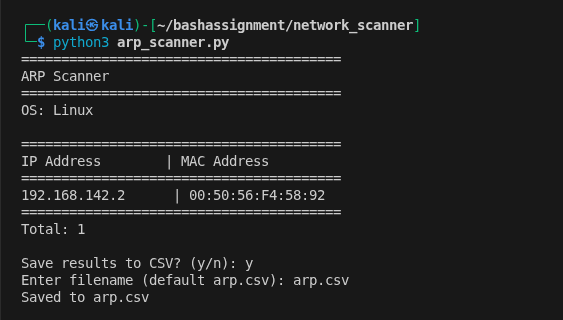
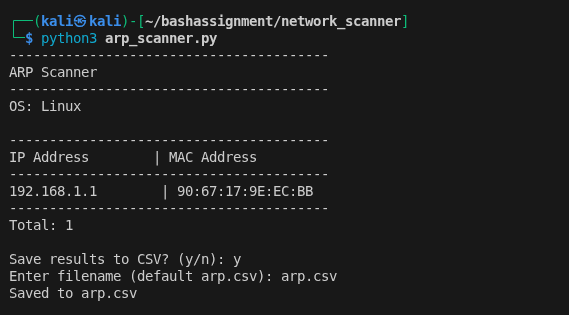
change in ss

Changed region(s): [[0.0, 0.0286, 0.7549, 0.3714], [0.0, 0.4286, 0.6039, 0.7429], [0.0, 0.8, 0.6341, 0.9714]]

diff --git a/network_scanner/arp_scanner.py b/network_scanner/arp_scanner.py
@@ -86,16 +86,16 @@ def show(entries):
         return
 
     # print table header
-    print("\n" + "=" * 40)
+    print("\n" + "-" * 40)
     print("IP Address        | MAC Address")
-    print("=" * 40)
+    print("-" * 40)
 
     # print each entry
     for e in entries:
         print(f"{e[0]:<18} | {e[1]}")
 
     # print total count
-    print("=" * 40)
+    print("-" * 40)
     print("Total:", len(entries))
 
 
@@ -138,9 +138,9 @@ def save(entries):
 
 # main function (program starts here)
 def main():
-    print("=" * 40)
+    print("-" * 40)
     print("ARP Scanner")
-    print("=" * 40)
+    print("-" * 40)
 
     # print OS info
     print("OS:", platform.system())
